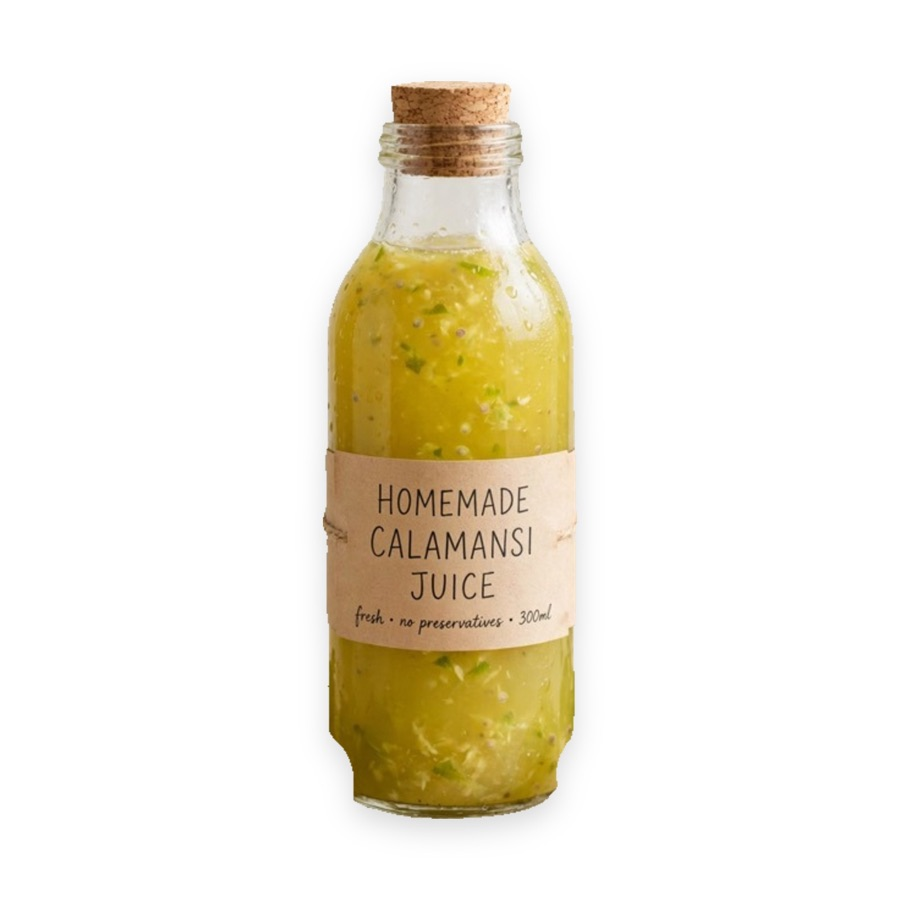
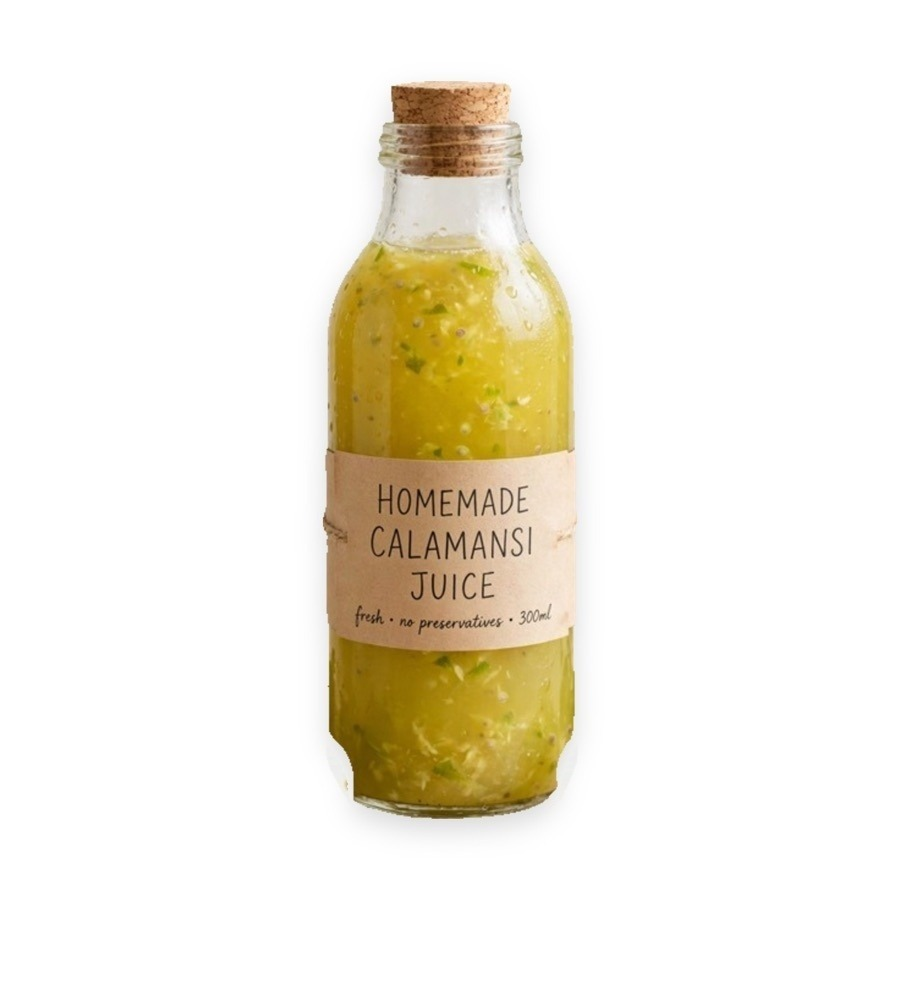
Retouch example photos and fix contact-sheet clipping

Changed region(s): [[0.3422, 0.0622, 0.6533, 0.9333], [0.3422, 0.56, 0.3733, 0.5911]]

diff --git a/src/components/studio.module.css b/src/components/studio.module.css
@@ -129,7 +129,7 @@
 .exampleDetails[open] .previewHeading::after { content: '−'; }
 .exampleBadge { margin-left: auto; border: 1px solid var(--line-control); border-radius: 6px; padding: 4px 7px; color: var(--text-secondary); font-size: 10px; font-weight: 500; white-space: nowrap; }
 .contactSheet { display: grid; grid-template-columns: minmax(0, 1.2fr) minmax(0, 1fr); grid-template-rows: minmax(0, 1fr) minmax(0, 1.25fr); align-items: center; gap: 10px 22px; max-width: 460px; height: 375px; margin: 30px auto 20px; padding: 4px 7px; }
-.contactSheet figure { display: flex; flex-direction: column; min-width: 0; overflow: hidden; background: var(--card); padding: 7px 7px 0; box-shadow: var(--photo-shadow); }
+.contactSheet figure { display: flex; flex-direction: column; min-width: 0; overflow: hidden; background: var(--card); padding: 7px; box-shadow: var(--photo-shadow); }
 .contactSheet img { display: block; flex: 1; min-height: 0; width: 100%; height: 0; object-fit: contain; }
 .contactSheet figcaption { display: grid; flex: 0 0 28px; place-items: center; font-size: 10px; font-weight: 550; color: var(--text-secondary); }
 .lifestyleExample { grid-row: 1 / 3; height: 80%; transform: rotate(-6deg); }
@@ -268,7 +268,7 @@
   .previewHeading > span:first-child { width: 100%; }
   .exampleBadge { margin-left: 0; margin-right: auto; }
   .contactSheet { height: 305px; gap: 10px 16px; max-width: 350px; margin-block: 20px; padding-inline: 6px; }
-  .contactSheet figure { padding: 5px 5px 0; }
+  .contactSheet figure { padding: 5px; }
   .contactSheet figcaption { flex-basis: 25px; font-size: 9px; }
   .packIncludes { gap: 10px; margin-top: 15px; }
   .packIncludes strong { font-size: 14px; }

diff --git a/src/components/pack-preview.tsx b/src/components/pack-preview.tsx
@@ -18,7 +18,7 @@ export function PackPreview() {
               <figcaption>Lifestyle photo</figcaption>
             </figure>
             <figure className={styles.mainExample}>
-              <img src="/examples/main.jpg" alt="The sample calamansi bottle cut out on a white background" width="900" height="900" />
+              <img src="/examples/main.jpg" alt="The sample calamansi bottle cut out on a white background" width="900" height="1000" />
               <figcaption>Main photo</figcaption>
             </figure>
             <figure className={styles.promoExample}>
